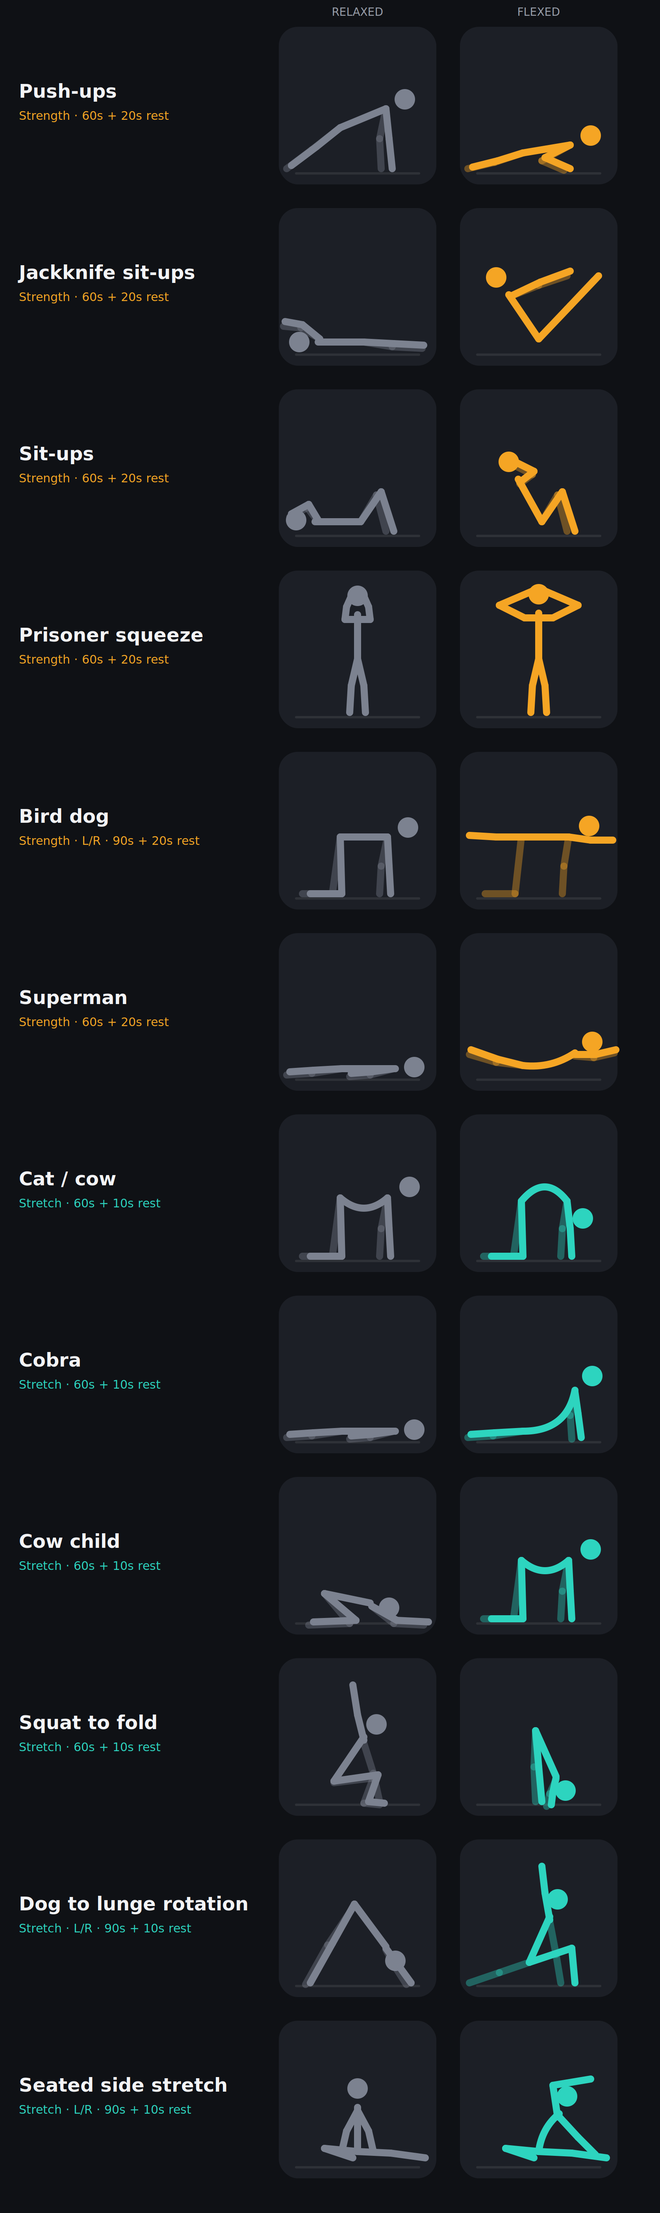
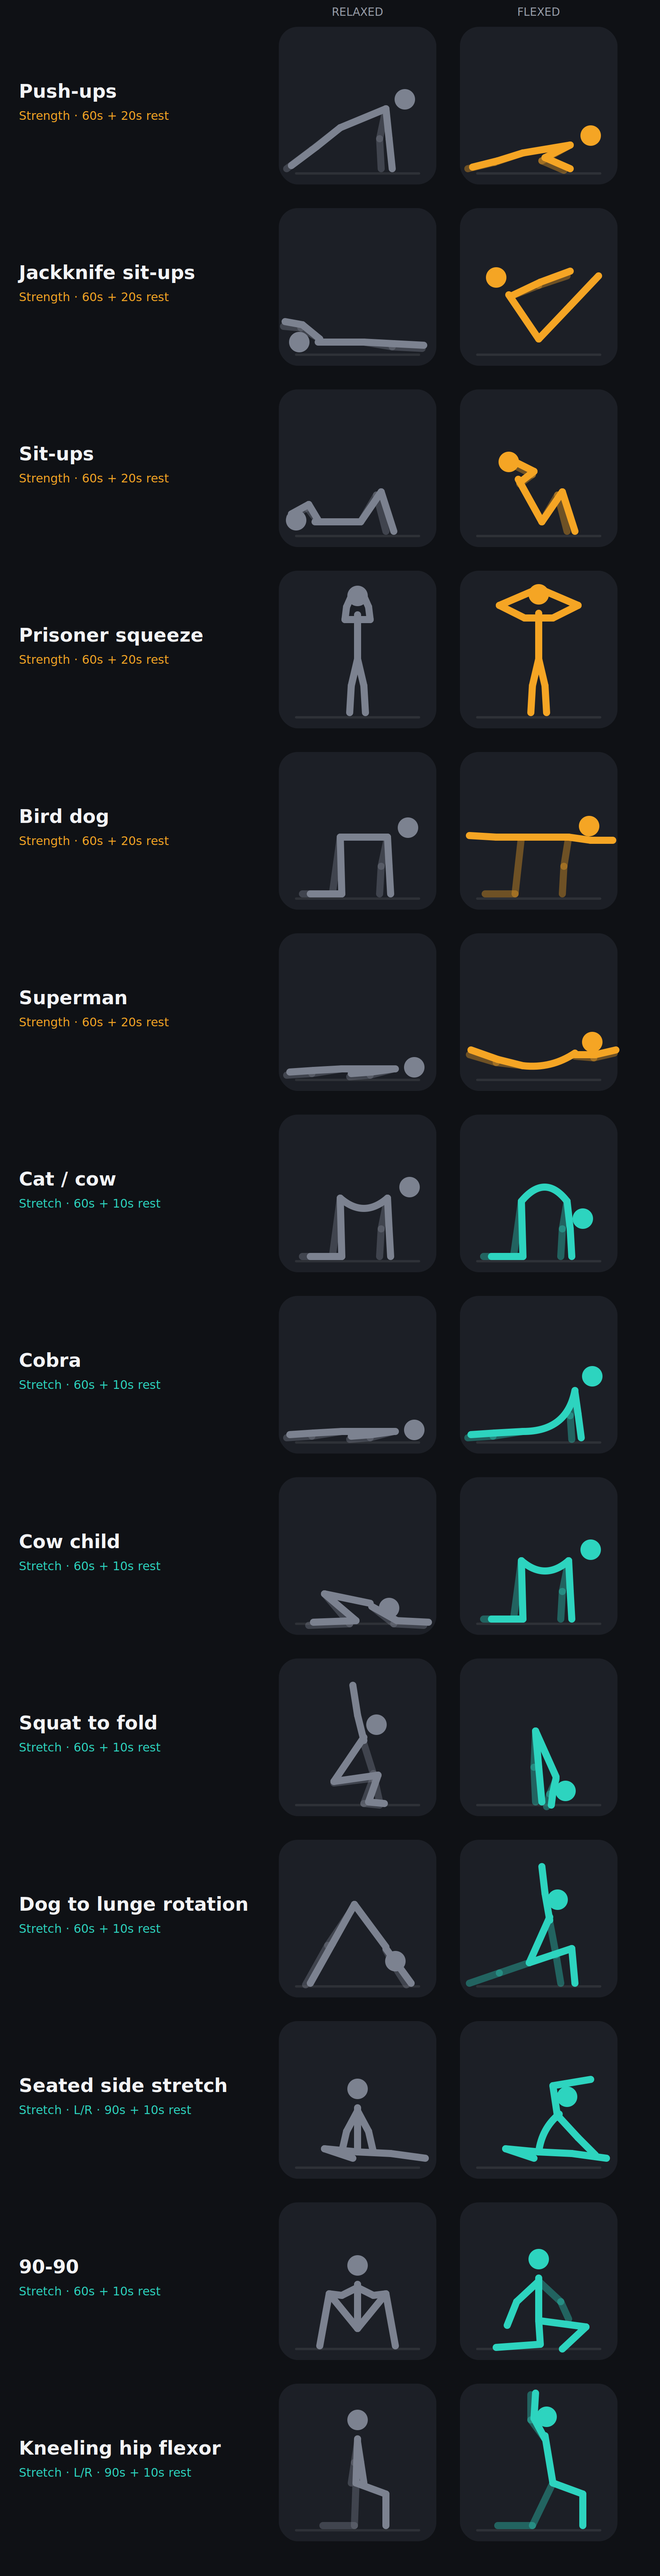
feat: add 90-90 and kneeling hip flexor to the bank; figure table matches the bank

diff --git a/js/exercises.js b/js/exercises.js
@@ -14,6 +14,8 @@ export const EXERCISES = [
   { id: "squat_to_fold",       name: "Squat to fold",         type: "stretch",  sided: false, defaultSeconds: 60, defaultRestSeconds: 10, cue: "Reach up in the squat, then hips up, hands down" },
   { id: "dog_lunge_rotation",  name: "Dog to lunge rotation", type: "stretch",  sided: false, defaultSeconds: 60, defaultRestSeconds: 10, cue: "Step the foot beside the hand, open to the sky" },
   { id: "seated_side_stretch", name: "Seated side stretch",   type: "stretch",  sided: true,  defaultSeconds: 90, defaultRestSeconds: 10, cue: "Reach over the head toward the foot" },
+  { id: "ninety_ninety",       name: "90-90",                 type: "stretch",  sided: false, defaultSeconds: 60, defaultRestSeconds: 10, cue: "Feet stay planted, drop both knees to one side, then the other" },
+  { id: "kneeling_hip_flexor", name: "Kneeling hip flexor",   type: "stretch",  sided: true,  defaultSeconds: 90, defaultRestSeconds: 10, cue: "Tuck the tailbone, push the hips forward" },
 ];
 
 const byId = new Map(EXERCISES.map(e => [e.id, e]));

diff --git a/test/exercises.test.js b/test/exercises.test.js
@@ -2,7 +2,7 @@ import test from "node:test";
 import assert from "node:assert/strict";
 import { EXERCISES, getExercise, figureUrl } from "../js/exercises.js";
 
-test("bank has the twelve exercises with their defaults", () => {
+test("bank has the fourteen exercises with their defaults", () => {
   assert.deepEqual(EXERCISES.map(e => [e.id, e.type, e.sided, e.defaultSeconds, e.defaultRestSeconds]), [
     ["pushups", "strength", false, 60, 20],
     ["jackknife", "strength", false, 60, 20],
@@ -16,6 +16,8 @@ test("bank has the twelve exercises with their defaults", () => {
     ["squat_to_fold", "stretch", false, 60, 10],
     ["dog_lunge_rotation", "stretch", false, 60, 10],
     ["seated_side_stretch", "stretch", true, 90, 10],
+    ["ninety_ninety", "stretch", false, 60, 10],
+    ["kneeling_hip_flexor", "stretch", true, 90, 10],
   ]);
   assert.ok(EXERCISES.every(e => e.name && e.cue && ["strength", "stretch"].includes(e.type)));
   assert.ok(EXERCISES.filter(e => e.sided).every(e => e.defaultSeconds % 2 === 0), "sided defaults split evenly per side");

diff --git a/sw.js b/sw.js
@@ -1,8 +1,8 @@
 // Precache the app shell and figures; serve same-origin GETs cache-first.
 // Bump VERSION on every deploy so old caches are replaced.
-const VERSION = "v1.2.6";
+const VERSION = "v1.2.7";
 const CACHE = `morningfit-${VERSION}`;
-const FIGURE_IDS = ["pushups", "jackknife", "situps", "prisoner_squeeze", "bird_dog", "superman", "cat_cow", "cobra", "cow_child", "squat_to_fold", "dog_lunge_rotation", "seated_side_stretch"];
+const FIGURE_IDS = ["pushups", "jackknife", "situps", "prisoner_squeeze", "bird_dog", "superman", "cat_cow", "cobra", "cow_child", "squat_to_fold", "dog_lunge_rotation", "seated_side_stretch", "ninety_ninety", "kneeling_hip_flexor"];
 const FIGURES = FIGURE_IDS.flatMap(id => [`./assets/figures/${id}_relaxed.svg`, `./assets/figures/${id}_flexed.svg`]);
 const ASSETS = [
   "./", "./index.html", "./manifest.webmanifest", "./css/app.css",

diff --git a/tools/figures.py b/tools/figures.py
@@ -255,20 +255,34 @@ SEATED_SIDE_BEND = dict(head=(136, 96), neck=(126, 118), hip=(100, 166), spine_c
                         arm=[(126, 122), (150, 148), (172, 170)],                    # near hand slides down the leg
                         arm2=[(124, 122), (118, 82), (166, 74)])                     # opposite arm over the head
 
+NINETY_RELAXED = dict(head=(100, 80), neck=(100, 104), hip=(100, 160),                 # front view: feet planted wide, knees up
+                      leg=[(100, 160), (64, 116), (52, 182)],
+                      leg2=[(100, 160), (136, 116), (148, 182)],
+                      arm=[(100, 108), (80, 118), (64, 116)],                           # hands on the knees
+                      arm2=[(100, 108), (120, 118), (136, 116)])
+
+NINETY_FOLD = dict(head=(100, 72), neck=(100, 96), hip=(100, 150),                     # both knees dropped to one side, feet stay
+                   leg=[(100, 150), (102, 180), (46, 184)],                             # inside leg: thigh straight ahead, calf out to the side
+                   leg2=[(100, 150), (160, 158), (130, 186)],                           # outside leg: thigh out to the side, calf back toward the other thigh
+                   arm=[(100, 100), (72, 126), (60, 156)],                              # hands on the floor beside the hips
+                   far_arm=[(100, 100), (128, 126), (138, 148)])
+
 EXERCISES = [
     # id, name, type, sided, seconds, rest seconds, relaxed pose, flexed pose, cue
     ("pushups",             "Push-ups",                  "strength", False, 60, 20, PLANK,               PUSHUP_DOWN,      "Elbows tucked, chest to floor"),
     ("jackknife",           "Jackknife sit-ups",         "strength", False, 60, 20, SUPINE_ARMS_UP,      JACKKNIFE,        "Reach hands to feet, fold at the hips"),
     ("situps",              "Sit-ups",                   "strength", False, 60, 20, SITUP_DOWN,          SITUP_UP,         "Curl up, keep the neck relaxed"),
     ("prisoner_squeeze",    "Prisoner squeeze",          "strength", False, 60, 20, PRISONER_RELAXED,    PRISONER_FLEXED,  "Elbows back, squeeze the shoulder blades"),
-    ("bird_dog",            "Bird dog",                  "strength", True,  90, 20, ALL_FOURS,           BIRD_DOG,         "Opposite arm and leg, hips level"),
+    ("bird_dog",            "Bird dog",                  "strength", False, 60, 20, ALL_FOURS,           BIRD_DOG,         "Opposite arm and leg, hips level"),
     ("superman",            "Superman",                  "strength", False, 60, 20, PRONE,               SUPERMAN,         "Lift arms and legs, lower slowly"),
     ("cat_cow",             "Cat / cow",                 "stretch",  False, 60, 10, COW,                 CAT,              "Move with the breath"),
     ("cobra",               "Cobra",                     "stretch",  False, 60, 10, PRONE,               COBRA,            "Hips down, shoulders away from ears"),
     ("cow_child",           "Cow child",                 "stretch",  False, 60, 10, CHILD,               COW,              "Sink hips to heels, then lift the chest"),
     ("squat_to_fold",       "Squat to fold",             "stretch",  False, 60, 10, SQUAT_ROTATION,      FORWARD_FOLD,     "Reach up in the squat, then hips up, hands down"),
-    ("dog_lunge_rotation",  "Dog to lunge rotation",     "stretch",  True,  90, 10, DOWN_DOG,            LUNGE_ROTATION,   "Step the foot beside the hand, open to the sky"),
+    ("dog_lunge_rotation",  "Dog to lunge rotation",     "stretch",  False, 60, 10, DOWN_DOG,            LUNGE_ROTATION,   "Step the foot beside the hand, open to the sky"),
     ("seated_side_stretch", "Seated side stretch",       "stretch",  True,  90, 10, SEATED_SIDE_RELAXED, SEATED_SIDE_BEND, "Reach over the head toward the foot"),
+    ("ninety_ninety",       "90-90",                     "stretch",  False, 60, 10, NINETY_RELAXED,      NINETY_FOLD,      "Feet stay planted, drop both knees to one side, then the other"),
+    ("kneeling_hip_flexor", "Kneeling hip flexor",       "stretch",  True,  90, 10, HIP_FLEX_RELAXED,    HIP_FLEX_FLEXED,  "Tuck the tailbone, push the hips forward"),
 ]
 
 def colour_for(t):
